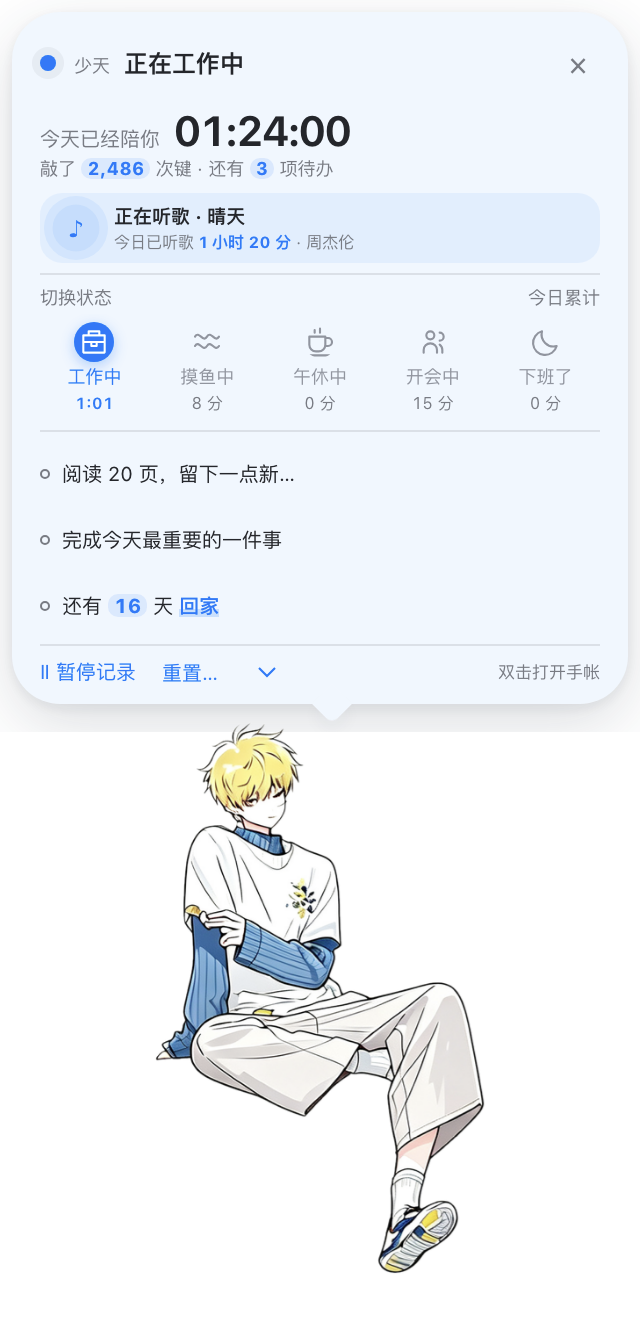
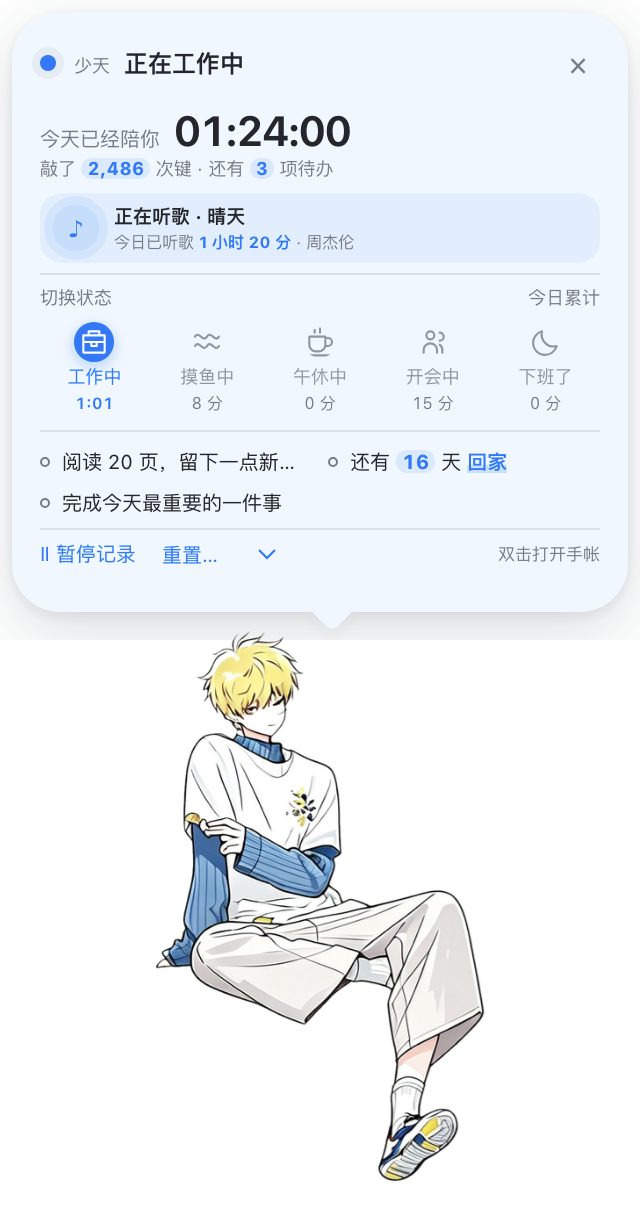
Status bubble: short without music, one row taller while music shows; reminders back to two rows

diff --git a/src/renderer/src/styles.css b/src/renderer/src/styles.css
@@ -1108,14 +1108,14 @@ h1,h2,h3,p {
 }
 /* A small speech bubble within the pet window; the tip points at its head. */
 
-.pet-bubble-window { width:320px; height:var(--bubble-height, 306px); padding:6px 6px 14px; transform:scale(var(--panel-scale,1)); transform-origin:top left; }
+.pet-bubble-window { width:320px; height:calc(100vh / var(--panel-scale,1)); padding:6px 6px 14px; transform:scale(var(--panel-scale,1)); transform-origin:top left; }
 .pet-bubble-window--below { padding-top:14px; padding-bottom:6px; }
 .pet-bubble-window--below .pet-bubble::after { top:-7px; bottom:auto; transform:rotate(225deg); }
 .pet-bubble-window--left { padding-right:14px; padding-bottom:6px; }
 .pet-bubble-window--right { padding-left:14px; padding-bottom:6px; }
 .pet-bubble-window--left .pet-bubble::after { left:auto;right:-7px;top:calc(var(--bubble-tip-top,40px) - 7px);bottom:auto;transform:rotate(-45deg); }
 .pet-bubble-window--right .pet-bubble::after { left:-7px;top:calc(var(--bubble-tip-top,40px) - 7px);bottom:auto;transform:rotate(135deg); }
-.pet-bubble.status-window { position:relative; padding:12px 13px 10px; height:var(--bubble-height, 286px); border-radius:17px; overflow:visible; background:#f8f9fcf5; box-shadow:0 2px 7px #14203414; }
+.pet-bubble.status-window { position:relative; padding:12px 13px 10px; height:100%; border-radius:17px; overflow:visible; background:#f8f9fcf5; box-shadow:0 2px 7px #14203414; }
 .pet-bubble::after { content:''; position:absolute; bottom:-7px; left:calc(var(--bubble-tip-left, 50%) - 7px); width:14px; height:14px; background:#f8f9fc; transform:rotate(45deg); border-right:1px solid #ffffff99; border-bottom:1px solid #ffffff99; border-radius:0 0 4px 0; }
 .bubble-header { display:flex; align-items:center; justify-content:space-between; height:23px; }
 .pet-bubble .recording-label { margin:0; font-size:calc(11px * var(--panel-font-scale, 1)); gap:7px; }
@@ -1383,15 +1383,8 @@ h1,h2,h3,p {
 .state-images-heading .text-button:disabled { opacity:.4; }
 .state-images-confirm { margin-bottom:8px; border-radius:12px; }
 .sprite-library-heading-actions .text-button.secondary { color:var(--secondary); }
-/* Status bubble: fixed-height column. The music row is always reserved and the
-   reminders take whatever space is left (three rows), so nothing jumps or clips. */
-.pet-bubble.status-window { display:flex; flex-direction:column; }
-.pet-bubble.status-window>* { flex:none; }
-.pet-bubble .bubble-music.is-idle strong { color:var(--secondary); font-weight:500; }
-.pet-bubble .bubble-music.is-idle>span { opacity:.55; }
+/* Status bubble: thin scrollbar under the state row when there are many states. */
 .pet-bubble .status-options { scrollbar-width:thin; }
 .pet-bubble .status-options::-webkit-scrollbar { height:3px; }
 .pet-bubble .status-options::-webkit-scrollbar-thumb { border-radius:3px; background:color-mix(in srgb,var(--accent-base) 22%,transparent); }
-.pet-bubble.status-window .bubble-tasks { flex:1 1 auto; height:auto; min-height:0; grid-template-rows:repeat(3,minmax(0,1fr)); }
-.pet-bubble.status-window .bubble-footer { padding-top:6px; }
 

diff --git a/src/main/index.ts b/src/main/index.ts
@@ -1,3 +1,4 @@
+import { musicRowVisible } from '../shared/music'
 import type { PanelPreferences } from '../shared/appearance'
 import { validNoticeRule, noticeRuleMatches, isKeystrokeMilestone, renderNoticeTemplate, effectiveIconMode, type NotificationPreferences, type NoticeTemplateKey } from '../shared/notifications'
 import { validWorkStateDefinition, type WorkStateDefinition } from '../shared/workStates'
@@ -121,6 +122,14 @@ function setStartupEnabled(enabled:boolean):boolean{
   return getStartupEnabled()
 }
 let trayHandle: TrayHandle | null = null
+// The status bubble is one row taller while it shows music; resize it when that flips.
+let statusShowsMusic = musicRowVisible(getMusicSnapshot())
+function fitStatusWindowToMusic(): void {
+  const next = musicRowVisible(getMusicSnapshot())
+  if (next === statusShowsMusic) return
+  statusShowsMusic = next
+  if (catWindow && statusWindow && !statusWindow.isDestroyed() && statusWindow.isVisible()) positionStatusWindow(statusWindow, catWindow)
+}
 // Dev build only: notice when `npm run build` replaced the code this process is running.
 let codeUpdated = false
 function watchForCodeUpdates(): void {
@@ -512,7 +521,7 @@ app.whenReady().then(() => {
   catWindow.on('move', reposition)
   catWindow.on('resize', reposition)
   const flushInterval = setInterval(flushRuntime, 30_000)
-  const musicInterval=setInterval(()=>{void sampleMusic().then(snapshot=>{for(const win of BrowserWindow.getAllWindows())win.webContents.send('music:updated',snapshot)})},5000)
+  const musicInterval=setInterval(()=>{void sampleMusic().then(snapshot=>{for(const win of BrowserWindow.getAllWindows())win.webContents.send('music:updated',snapshot);fitStatusWindowToMusic()})},5000)
   void sampleMusic()
   // Explicit switches broadcast themselves; the tick only reports changes it
   // detects (day rollover, wake restore). Panels keep their own timers for live
@@ -752,6 +761,7 @@ ipcMain.handle('music:set-enabled',async(_event,enabled:boolean)=>{
   setMusicTracking(enabled)
   const snapshot=enabled?await sampleMusic():getMusicSnapshot()
   for(const win of BrowserWindow.getAllWindows())win.webContents.send('music:updated',snapshot)
+  fitStatusWindowToMusic()
   return snapshot
 })
 ipcMain.handle('music:statistics',(_event,period:CheckinPeriod,anchorDate:string)=>{

diff --git a/src/renderer/src/StatusPanel.tsx b/src/renderer/src/StatusPanel.tsx
@@ -4,6 +4,7 @@ import { DEFAULT_WORK_STATES, WORK_STATE_PATHS, type WorkStateDefinition } from 
 import { todayStr } from '../../shared/date'
 import { compareBubbleTasks } from '../../shared/tasks'
 import type { MusicSnapshot } from '../../shared/music'
+import { musicRowVisible } from '../../shared/music'
 
 export function duration(seconds: number): string {
   const n = Math.floor(seconds)
@@ -66,8 +67,7 @@ export default function StatusPanel(): React.JSX.Element {
     </header>
     {data ? <>
       <div className="bubble-message"><span>今天已经陪你</span><strong className="companion-clock">{duration(data.companionSeconds)}</strong><small>敲了 <b className="bubble-number">{data.keystrokesToday.toLocaleString()}</b> 次键 · 还有 <b className="bubble-number">{tasks.length}</b> 项待办</small></div>
-      {/* Always occupies its row so the bubble doesn't change height when music starts. */}
-      <div className={`bubble-music${music.playing?' is-playing':''}${music.enabled&&(music.playing||music.todaySeconds>0)?'':' is-idle'}`}><span>♪</span><div>{music.enabled?<><strong>{music.playing?`正在听歌${music.title?` · ${music.title}`:''}`:music.todaySeconds>0?'今天听过歌':'现在没有在听歌'}</strong><small>今日已听歌 <b>{listeningDuration(music.todaySeconds)}</b>{music.playing&&music.artist?` · ${music.artist}`:''}</small></>:<><strong>听歌统计未开启</strong><small>在手帐「统计」页打开 Apple Music 开关</small></>}</div></div>
+      {musicRowVisible(music)&&<div className={`bubble-music${music.playing?' is-playing':''}`}><span>♪</span><div><strong>{music.playing?`正在听歌${music.title?` · ${music.title}`:''}`:'今天听过歌'}</strong><small>今日已听歌 <b>{listeningDuration(music.todaySeconds)}</b>{music.playing&&music.artist?` · ${music.artist}`:''}</small></div></div>}
       <div className="bubble-section-label"><span>切换状态</span><small>今日累计</small></div>
       <div className="status-options" aria-label="切换当前状态">{states.map(s => <button key={s.id} style={{'--state-color':s.color} as React.CSSProperties}
         className={data.state === s.id ? 'selected' : ''} aria-pressed={data.state === s.id}

diff --git a/src/main/windows.ts b/src/main/windows.ts
@@ -1,5 +1,7 @@
 import { getPanelPreferences } from './settingsStore'
 import { bubbleBaseHeight } from '../shared/appearance'
+import { musicRowVisible } from '../shared/music'
+import { getMusicSnapshot } from './musicStore'
 import type { NoticeLocation } from '../shared/notifications'
 import { BrowserWindow, screen } from 'electron'
 import { join } from 'path'
@@ -105,7 +107,7 @@ export function createStatusWindow(parent: BrowserWindow): BrowserWindow {
   const { singleScale, panelFontScale } = getPanelPreferences()
   const win = new BrowserWindow({
     width: Math.ceil(320 * singleScale),
-    height: Math.ceil(bubbleBaseHeight(panelFontScale) * singleScale),
+    height: Math.ceil(bubbleBaseHeight(panelFontScale, musicRowVisible(getMusicSnapshot())) * singleScale),
     frame: false,
     transparent: true,
     backgroundColor: '#00000000',
@@ -136,7 +138,8 @@ export function positionStatusWindow(win: BrowserWindow, parent: BrowserWindow):
   const area = screen.getDisplayMatching(pet).workArea
   const { singleScale, panelFontScale } = getPanelPreferences()
   const width = Math.ceil(320 * singleScale)
-  const height = Math.ceil(bubbleBaseHeight(panelFontScale) * singleScale)
+  const withMusic = musicRowVisible(getMusicSnapshot())
+  const height = Math.ceil(bubbleBaseHeight(panelFontScale, withMusic) * singleScale)
   const clamp=(value:number,min:number,max:number)=>Math.max(min,Math.min(value,max))
   const aboveFits=anchor.y-height>=area.y
   const belowFits=pet.y+pet.height+height<=area.y+area.height
@@ -162,7 +165,7 @@ export function positionStatusWindow(win: BrowserWindow, parent: BrowserWindow):
     placement,
     bubbleScale: singleScale,
     tipLeft: clamp((targetX-x)/singleScale,24,296),
-    tipTop:clamp((anchor.y-y+18)/singleScale,24,bubbleBaseHeight(panelFontScale)-24)
+    tipTop:clamp((anchor.y-y+18)/singleScale,24,bubbleBaseHeight(panelFontScale,withMusic)-24)
   }
   win.setBounds({ x: Math.round(x), y: Math.round(y), width, height }, false)
   win.webContents.send('status:layout', layout)

diff --git a/src/shared/appearance.ts b/src/shared/appearance.ts
@@ -25,5 +25,8 @@ export const ACCENT_PRESETS = [
 export function validAccentColor(value: unknown): value is string { return typeof value === 'string' && /^#[0-9a-f]{6}$/i.test(value) }
 export const PANEL_DEFAULTS: PanelPreferences = { panelScale:1,panelOpacity:1,panelFontScale:1,singleScale:1,singleOpacity:1,hubOpacity:1,notificationScale:1,notificationOpacity:1 }
 export const PANEL_LIMITS = { panelScale:[0.8,1.5],panelOpacity:[0.4,1],panelFontScale:[0.85,1.3],singleScale:[0.7,1.6],singleOpacity:[0.35,1],hubOpacity:[0.4,1],notificationScale:[0.7,1.6],notificationOpacity:[0.35,1] } as const
-// 366 = header, clock, a reserved music row, states, three rows of reminders, footer.
-export function bubbleBaseHeight(fontScale: number): number { return Math.ceil(366 + Math.max(0, fontScale - 1) * 300) }
+// Status bubble window height: fits header, clock, states, two rows of reminders and the
+// footer; grows by one row while the music row shows (the bubble rises above the pet).
+export function bubbleBaseHeight(fontScale: number, withMusic = false): number {
+  return Math.ceil(276 + Math.max(0, fontScale - 1) * 270 + (withMusic ? 44 * Math.max(1, fontScale) : 0))
+}

diff --git a/src/renderer/src/App.tsx b/src/renderer/src/App.tsx
@@ -1,6 +1,6 @@
 import { useEffect, useState, type CSSProperties } from 'react'
 import type { StatusWindowLayout } from '../../preload'
-import { bubbleBaseHeight, type PanelPreferences } from '../../shared/appearance'
+import type { PanelPreferences } from '../../shared/appearance'
 import CatView from './CatView'
 import HubPanel from './HubPanel'
 import StatusPanel from './StatusPanel'
@@ -25,7 +25,6 @@ function App(): React.JSX.Element {
       css.setProperty('--panel-font-scale', String(s.panelFontScale ?? 1))
       css.setProperty('--panel-scale', String(singleSurface?(s.singleScale??s.panelScale??1):1))
       css.setProperty('--notification-scale',String(s.notificationScale??1))
-      css.setProperty('--bubble-height', `${bubbleBaseHeight(s.panelFontScale ?? 1) - 20}px`)
     }
     window.api.getWindowSettings().then(apply)
     window.api.getAccentColor().then(applyAccent)

diff --git a/src/shared/music.ts b/src/shared/music.ts
@@ -8,3 +8,7 @@ export interface MusicSnapshot{
 }
 export interface MusicDaySummary{date:string;seconds:number}
 export interface MusicStatistics{startDate:string;endDate:string;days:MusicDaySummary[];totalSeconds:number}
+
+/** Whether the status bubble shows its music row (the bubble grows taller while it does). */
+export const musicRowVisible = (music: { enabled: boolean; playing: boolean; todaySeconds: number }): boolean =>
+  music.enabled && (music.playing || music.todaySeconds > 0)
